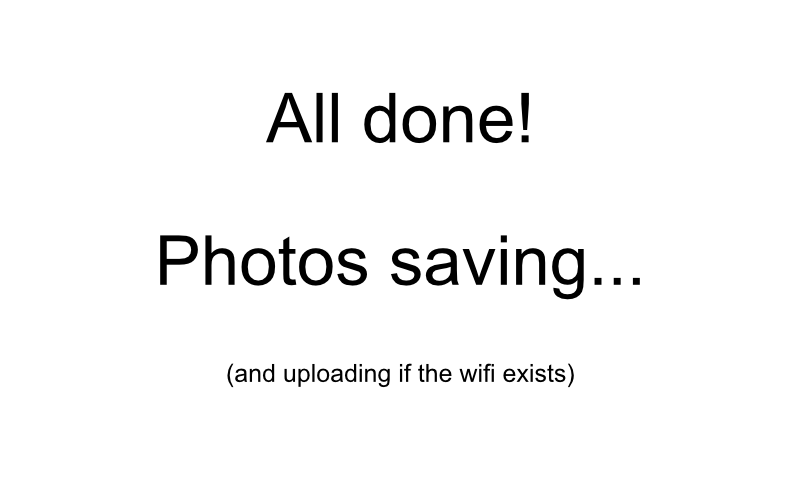
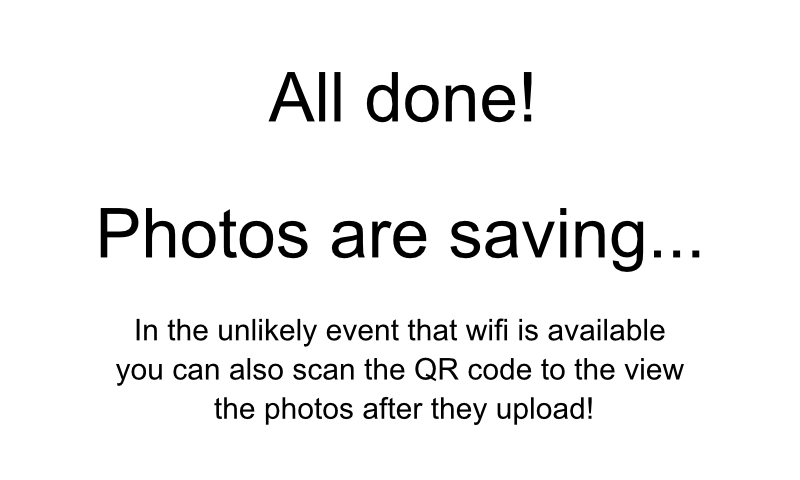
Changed instruction graphics
Removed scripts no longer required and adjusted the graphics to give
correct instructions.

diff --git a/photobooth.py b/photobooth.py
@@ -31,7 +31,6 @@ res_h = 480 # height of screen resolution
 text_size = 60 # size of annotated text
 text_color = '#fff' # colour of annotated text
 bg_color = '#000' # colour of annotated text background
-test_server = 'www.google.com' # server location to check for network
 reset_delay = 5
 save_path = '/home/pi/captures/'
 instruction_path = '/home/pi/github/photobooth/'
@@ -95,12 +94,12 @@ def resetCamera():
     leds.value = (1,1,0,0) # first two red leds after photos finished
     print('All done')
     displayInstructions(instruction_path + 'all_done.png')
-    sleep(3)
+    sleep(6)
     leds.value = (1,1,1,0) # all red leds after photos finished
     print('Resetting...')
     displayInstructions(instruction_path + 'resetting.png')
-    leds.blink(n=5)
     sleep(reset_delay)
+    leds.blink(n=3)
     fireUp()
 
 def displayInstructions(instruction_file): # load, convert and display the instructions file
